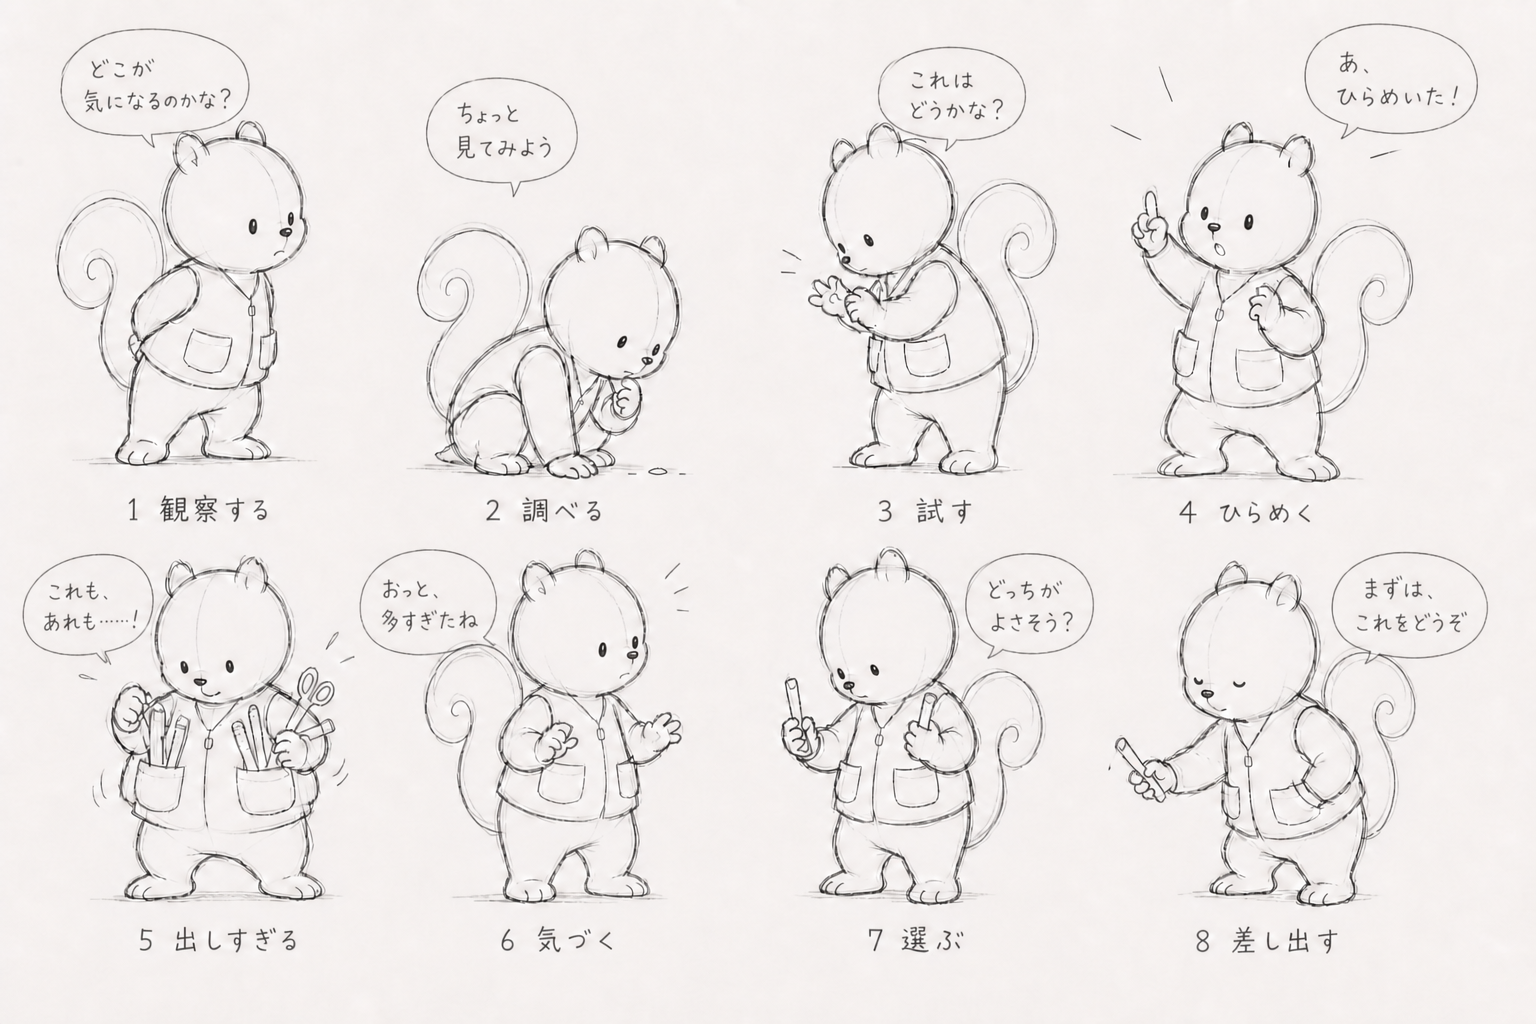
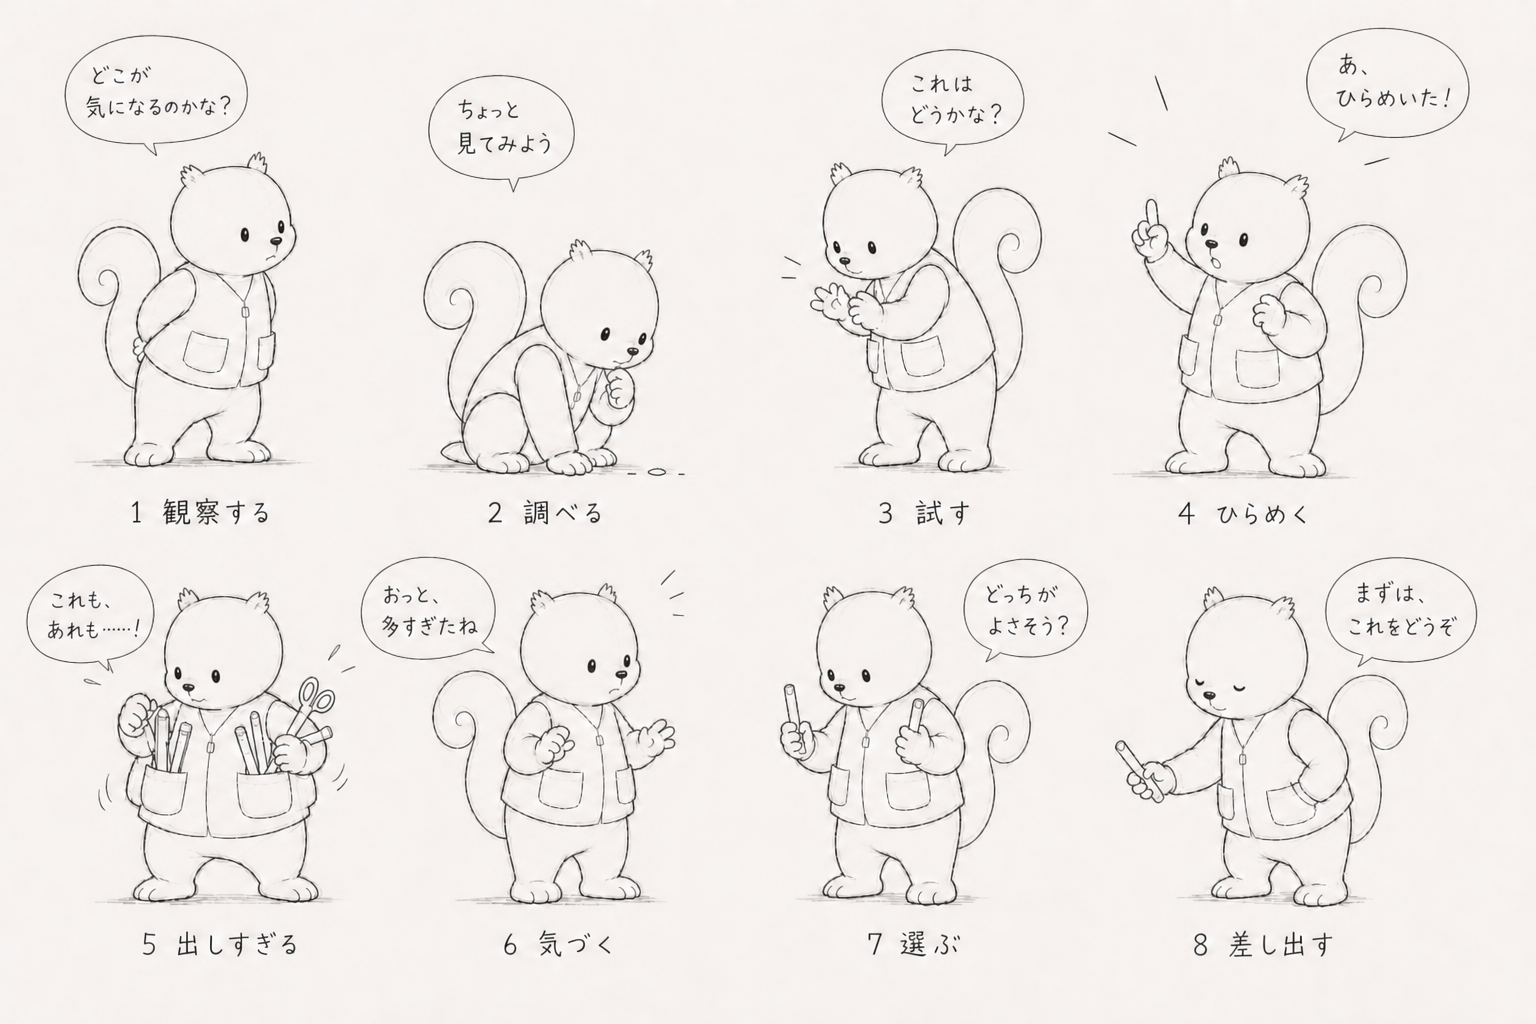
art: lock risu character proportions

diff --git a/planning/style-studies/output-process.html b/planning/style-studies/output-process.html
@@ -73,7 +73,7 @@
     ];
     const specs = {
       kotori:{ label:"ことり先生", desc:"聞く・返す・待つ。現在の代表候補は「聞く」。", files:["v1","v1","v2","v1","v1","v1","v1","v2","v3"] },
-      risu:{ label:"りす先生", desc:"観察・試す・選び直す。現在の代表候補は「ひらめく」。", files:["v1","v1","v2","v1","v1","v1","v1","v2","v3"] },
+      risu:{ label:"りす先生", desc:"観察・試す・選び直す。現在の代表候補は「ひらめく」。STEP 01の第3案を固定造形とし、青＝外形、橙＝耳、赤紫＝顔パーツ位置のガイドを重ねている。", files:["v1","v1","v2","v1","v1","v1","v1","v2","v3"], overrides:{0:"outputs/characters/risu/01-risu-character-design-step-1-ratio-lock-guide-v1.png"} },
       usagi:{ label:"うさぎ先生", desc:"誘う・気づく・合わせる。現在の代表候補は「誘う」。", files:["v1","v1","v2","v1","v1","v1","v1","v2","v3"] }
     };
     const sections = [];
@@ -83,7 +83,8 @@
       characterSteps.forEach((step,index) => {
         const version=spec.files[index];
         const basename=step[0].startsWith("facial-parts") ? step[0] : `${step[0]}-${version}`;
-        items.push({n:number++, title:step[1], note:step[2], file:`outputs/characters/${key}/${String(number-1).padStart(2,"0")}-${key}-${basename}.png`});
+        const defaultFile=`outputs/characters/${key}/${String(number).padStart(2,"0")}-${key}-${basename}.png`;
+        items.push({n:number++, title:step[1], note:step[2], file:spec.overrides?.[index]||defaultFile});
         if(key==="usagi" && index===3) items.push({n:number++, title:"感情とポーズの再調整", note:"頭身変化を抑え、元の造形を維持して表情と動作を調整した。", file:`outputs/characters/usagi/${String(number-1).padStart(2,"0")}-usagi-character-emotion-pose-combined-v2.png`});
       });
       sections.push({key,label:spec.label,desc:spec.desc,items});

diff --git a/planning/style-studies/references/risu-model-lock.md b/planning/style-studies/references/risu-model-lock.md
@@ -1,0 +1,33 @@
+# りす先生 造形固定ガイド
+
+りす先生の表情・ポーズ差分を作るとき、STEP 01で選んだ第3案を造形の正本として使う。
+
+## 参照画像
+
+- 比較と固定線：[`01-risu-character-design-step-1-ratio-lock-guide-v1.png`](../outputs/characters/risu/01-risu-character-design-step-1-ratio-lock-guide-v1.png)
+- 生成時のマスター輪郭：[`02-risu-master-silhouette-lock-v1.png`](../outputs/characters/risu/02-risu-master-silhouette-lock-v1.png)
+
+## 固定するもの
+
+- 頭は真円ではなく、頭頂が緩やかで、左右の頬が少し張り、顎へ向かって狭くなる。
+- 耳は小さく低い。耳先に短い2〜3本の毛束を残す。
+- 目は小さな縦長の点。左右の間隔を変えない。
+- 鼻は小さな横長の楕円。鼻下の線を長くしない。
+- 通常の口は短いW形。丸いクマ型のマズルを作らない。
+- 頭、胴体、手、足、尻尾の比率を維持する。
+- 尻尾を隠しても、同じりす先生に見える。
+
+## 変更できるもの
+
+- 視線、目の開閉、眉、口角
+- 首と身体の傾き
+- 手足の動きと重心
+- 道具、場面ごとの持ち物
+- 耳と尻尾の小さな反応。ただし外形と大きさは変えない
+
+## 確認方法
+
+1. 表情と道具を取り除く。
+2. マスター輪郭へ半透明で重ねる。
+3. 頭、頬、顎、耳が大きく外れていないか確認する。
+4. 無表情へ戻したとき、マスターと別のキャラクターに見える案は採用しない。

diff --git a/planning/style-studies/prompts/character-design-prompt-workflow.md b/planning/style-studies/prompts/character-design-prompt-workflow.md
@@ -63,6 +63,19 @@
 
 詳細なキャラクター設定は [`world-and-character-guide.md`](../../world-and-character-guide.md) を参照する。
 
+### 種族造形の固定ルール
+
+正面線画で基準形を選んだ後は、表情・感情・ポーズの工程でも次を再設計しない。
+
+- 耳・翼・しっぽの大きさ、位置、輪郭、毛束
+- 頭の縦横比、額、頬、顎の輪郭
+- 目、鼻、口の基本位置と、通常時の口形
+- 頭と身体、手足の比率
+
+特に、りす先生は [`risu-model-lock.md`](../references/risu-model-lock.md) とマスター輪郭を毎回参照し、**小さく低い耳と耳先の短い毛束、小さな楕円鼻、短いW形の口**を固定する。感情を変える際に耳を丸い半円へ変えたり、頭を真円にしたり、鼻下の縦線を長くしたりして、クマ型の顔へ近づけない。尻尾を隠しても同じりす先生に見えることを確認する。
+
+> **表情差は造形差ではない。感情を変えても、無表情へ戻せば正面線画と同じキャラクターになること。**
+
 ### 固定ブロック例――うさぎ先生
 
 ```text
